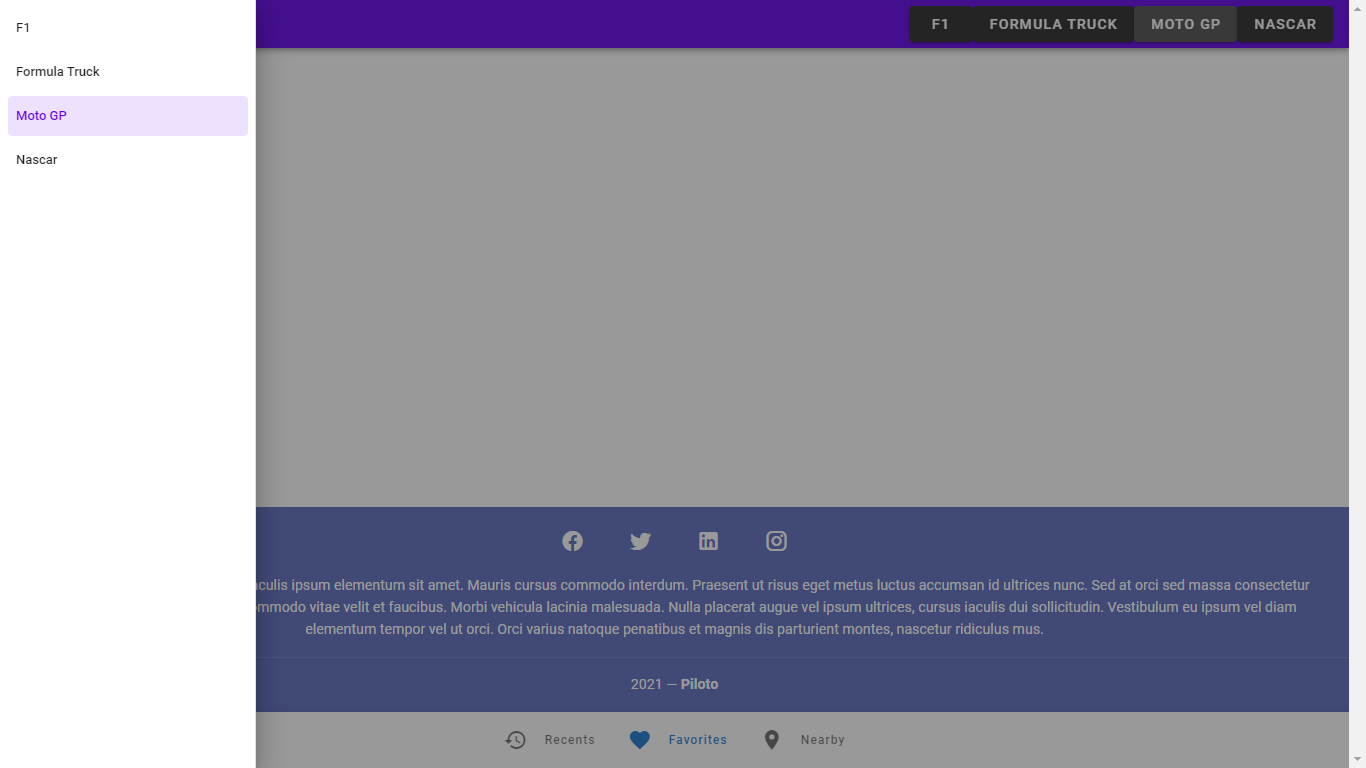
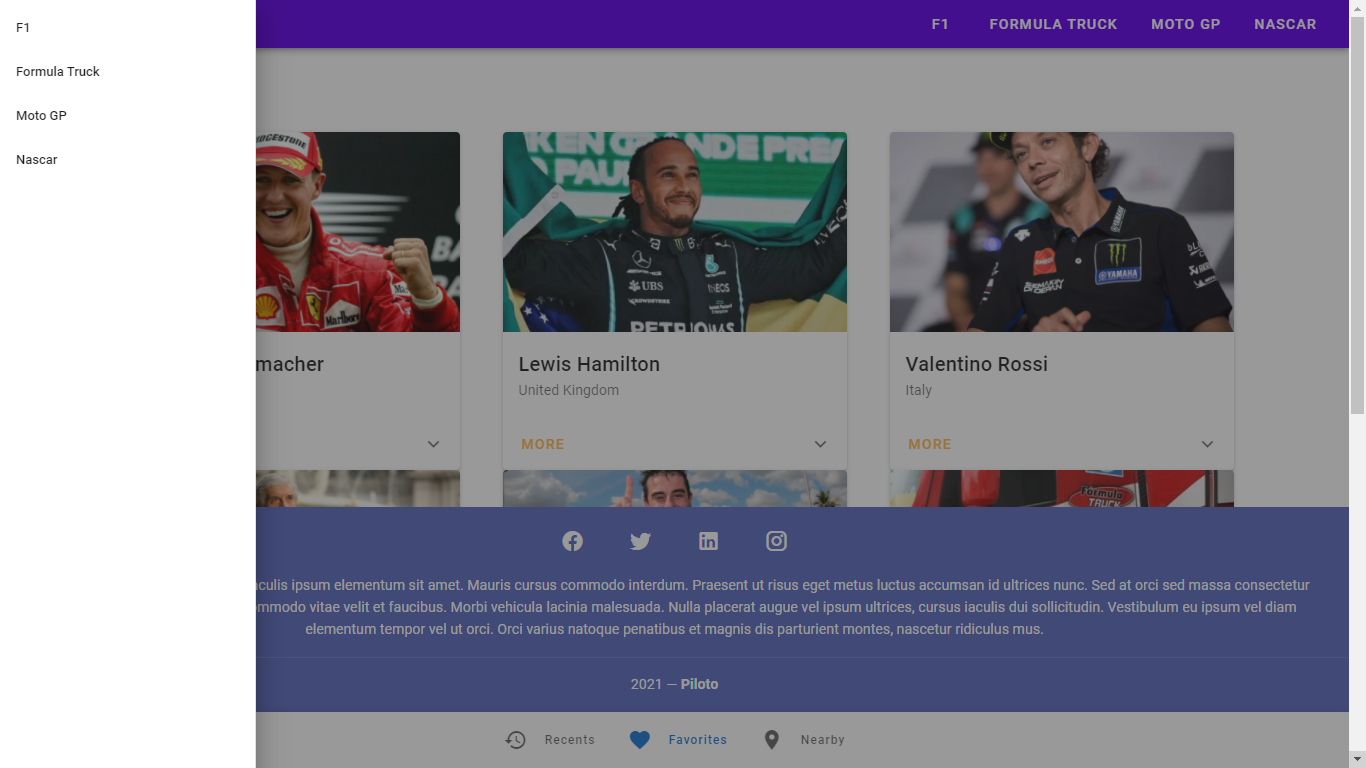
cards & readme

diff --git a/piloto/src/store/index.js b/piloto/src/store/index.js
@@ -5,48 +5,65 @@ Vue.use(Vuex);
 
 export default new Vuex.Store({
   state: {
-    pilotos: [
+    pilots: [
       {
-        nome: "",
-        idade: "",
-        nacionalidade: "",
+        name: "Michael Schumacher",
+        age: "52 yeard old",
+        country: "Germany",
+        category: "F1",
+        picture: "schumacher.jpg",
       },
       {
-        nome: "",
-        idade: "",
-        nacionalidade: "",
+        name: "Lewis Hamilton",
+        age: "36 yeard old",
+        country: "United Kingdom",
+        category: "F1",
+        picture: "lewis.jpg",
       },
       {
-        nome: "",
-        idade: "",
-        nacionalidade: "",
+        name: "Valentino Rossi",
+        age: "42 yeard old",
+        country: "Italy",
+        category: "MotoGP",
+        picture: "valentino.jpg",
       },
       {
-        nome: "",
-        idade: "",
-        nacionalidade: "",
+        name: "Giacomo Agostini",
+        age: "79 yeard old",
+        country: "Italy",
+        category: "MotoGP",
+        picture: "giacomo.jpg",
       },
       {
-        nome: "",
-        idade: "",
-        nacionalidade: "",
+        name: "Roberval Andrade",
+        age: "50 yeard old",
+        country: "Brazil",
+        category: "Formula Truck",
+        picture: "roberval.jpg",
       },
       {
-        nome: "",
-        idade: "",
-        nacionalidade: "",
+        name: "Valmir Benavides",
+        age: "65 yeard old",
+        country: "Brazil",
+        category: "Formula Truck",
+        picture: "valmir.jpg",
       },
       {
-        nome: "",
-        idade: "",
-        nacionalidade: "",
+        name: "Aric Almirola",
+        age: "37 yeard old",
+        country: "EUA",
+        category: "Nascar",
+        picture: "aric.jpg",
       },
       {
-        nome: "",
-        idade: "",
-        nacionalidade: "",
+        name: "Josh Bilicki",
+        age: "26 yeard old",
+        country: "EUA",
+        category: "Nascar",
+        picture: "josh.jpg",
       },
     ],
+    title: "Pilots",
   },
   mutations: {},
   actions: {},

diff --git a/piloto/src/components/MyCard.vue b/piloto/src/components/MyCard.vue
@@ -4,16 +4,16 @@
     max-width="344"
   >
     <v-img
-      src="https://cdn.vuetifyjs.com/images/cards/sunshine.jpg"
+      :src="require(`@/assets/${cardInfo.picture}`)"
       height="200px"
     ></v-img>
 
     <v-card-title>
-      Top western road trips
+      {{cardInfo.name}}
     </v-card-title>
 
     <v-card-subtitle>
-      1,000 miles of wonder
+      {{cardInfo.country}}
     </v-card-subtitle>
 
     <v-card-actions>
@@ -21,7 +21,7 @@
         color="orange lighten-2"
         text
       >
-        Explore
+        More
       </v-btn>
 
       <v-spacer></v-spacer>
@@ -30,7 +30,6 @@
         icon
         @click="show = !show"
       >
-      {{cardid}}
         <v-icon>{{ show ? 'mdi-chevron-up' : 'mdi-chevron-down' }}</v-icon>
       </v-btn>
     </v-card-actions>
@@ -40,7 +39,7 @@
         <v-divider></v-divider>
 
         <v-card-text>
-          I'm a thing. But, like most politicians, he promised more than he could deliver. You won't have time for sleeping, soldier, not with all the bed making you'll be doing. Then we'll go with that data file! Hey, you add a one and two zeros to that or we walk! You're going to do his laundry? I've got to find a way to escape.
+          {{cardInfo.age}}, {{cardInfo.category}} pilot.
         </v-card-text>
       </div>
     </v-expand-transition>
@@ -49,9 +48,10 @@
 
 <script>
   export default {
-    props: ['cardid'],
+    props: ['cardid','cardInfo'],
     data: () => ({
       show: false,
+      picture: this.$store.state.pilots
     }),
   }
 </script>

diff --git a/piloto/src/views/Home.vue b/piloto/src/views/Home.vue
@@ -1,16 +1,19 @@
 <template>
-  <v-row no-gutters>
-    <v-col
-      v-for="(n,i) in 8"
-      :key="n"
-      cols="12"
-      sm="12"
-      md="4"
-      xs="2"
-    >
-      <MyCard :cardid="i"></MyCard>
-    </v-col>
-  </v-row>
+  <div>
+    <h1>{{titleview}}</h1>
+    <v-row no-gutters>
+      <v-col
+        v-for="(data,i) in myPilots"
+        :key="i"
+        cols="12"
+        sm="12"
+        md="4"
+        xs="2"
+      >
+        <MyCard :cardid="i" :cardInfo="data"></MyCard>
+      </v-col>
+    </v-row>
+  </div>
 </template>
 
 <script>
@@ -18,7 +21,16 @@ import MyCard from "@/components/MyCard"
 
 export default {
   name: "Home",
-
+  data(){
+    return{
+      titleview: this.$store.state.title
+    }
+  },
+  computed: {
+    myPilots(){
+      return this.$store.state.pilots
+    }
+  },
   components: {
     MyCard,
   },

diff --git a/piloto/src/components/Appbar.vue b/piloto/src/components/Appbar.vue
@@ -11,12 +11,12 @@
         <v-toolbar-title>Piloto</v-toolbar-title>
 
         <v-spacer></v-spacer>
-
-        <v-btn to="/f1">F1</v-btn>
-        <v-btn to="ftruck">Formula Truck</v-btn>
-        <v-btn to="/motogp">Moto GP</v-btn>
-        <v-btn to="/nascar">Nascar</v-btn>
-
+        
+        <v-btn text to="/f1">F1</v-btn>
+        <v-btn text to="/ftruck">Formula Truck</v-btn>
+        <v-btn text to="/motogp">Moto GP</v-btn>
+        <v-btn text to="/nascar">Nascar</v-btn>
+        
         </v-app-bar>
 
         <v-navigation-drawer

diff --git a/README.md b/README.md
@@ -8,3 +8,4 @@
 ## AF2
 
 ![AF2](piloto/src/assets/af2-1.png)
+![AF2-2](piloto/src/assets/af2-2.png)
